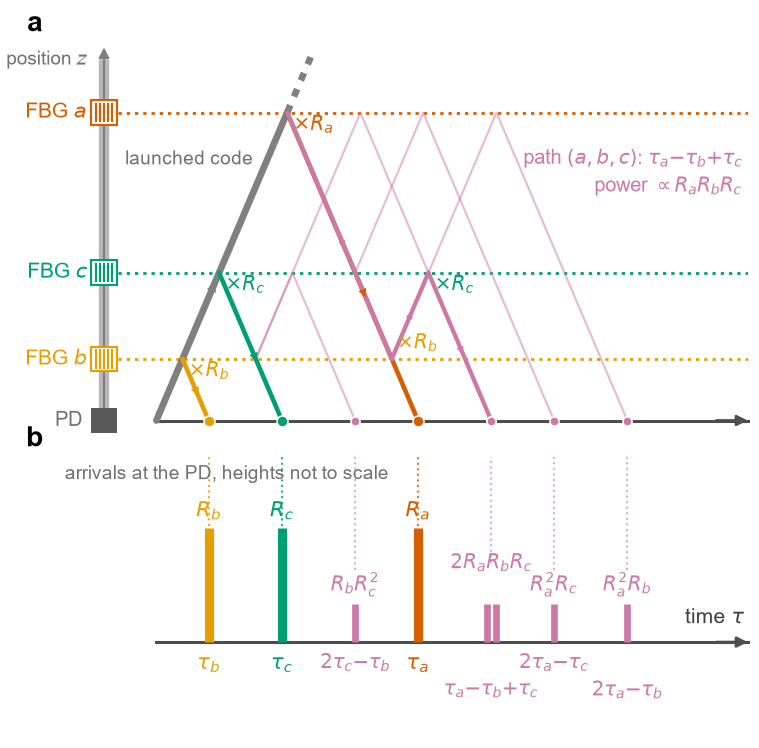
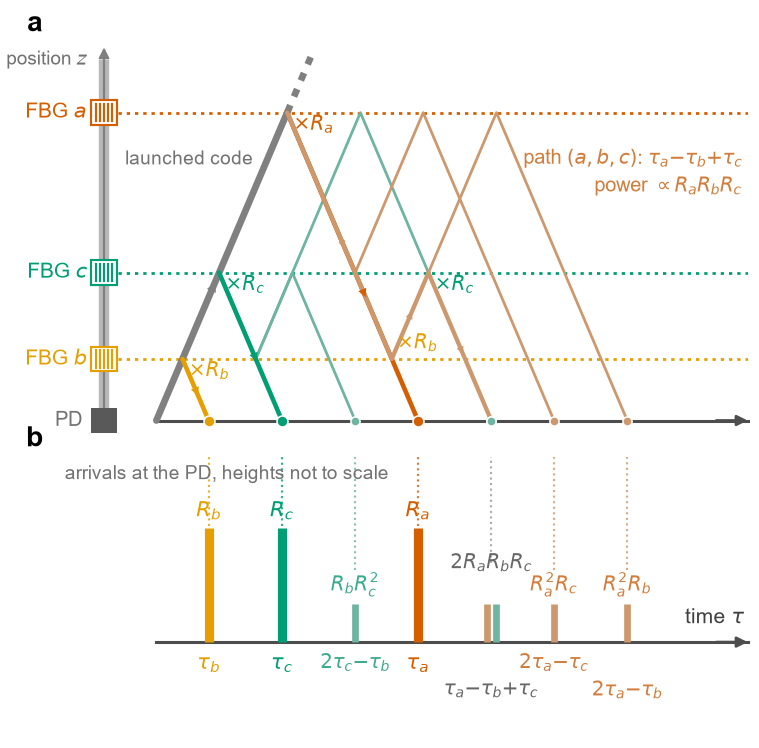
s50: ghosts coloured by the grating of their first reflection, greyed

diff --git a/python_selfcal_cdm/s50_ghostpath.py b/python_selfcal_cdm/s50_ghostpath.py
@@ -10,7 +10,8 @@ figures of the paper.
       launched code climbs the diagonal; every reflection descends back to
       z = 0 and lands on the time axis at its delay. The three direct returns
       and the third-order path (a,b,c) are drawn in full, the other four
-      third-order paths as thin lines.
+      third-order paths as thin lines. Every ghost carries the colour of the
+      grating of its first reflection, greyed.
   (b) The same time axis with every arrival: three direct returns of power
       ~ R and five third-order paths of power ~ R^3, labelled with delay and
       reflectivity product. The spacing is non-uniform on purpose so that the
@@ -33,7 +34,18 @@ FS.apply()
 TB, TC, TA = 1.0, 2.4, 5.0
 T = {'a': TA, 'b': TB, 'c': TC}
 COL = {'a': FS.VERM, 'b': FS.ORANGE, 'c': FS.GREEN}
-PUR = FS.PURPLE
+from matplotlib.colors import to_rgb
+
+
+def tint(col, w):
+    """Blend a colour with light grey: w = 1 keeps the colour, w = 0 is grey."""
+    c = np.array(to_rgb(col)); g = np.array([0.78, 0.78, 0.78])
+    return tuple(w * c + (1 - w) * g)
+
+
+# ghosts take the colour of the grating of their first reflection, greyed
+GH = {g: tint(COL[g], 0.45) for g in COL}    # lines, bars, dots
+GHT = {g: tint(COL[g], 0.7) for g in COL}    # text
 GREY = '0.45'
 TMAX = 11.3
 TMIN = -1.9      # room on the left for the fiber with the gratings
@@ -118,23 +130,23 @@ for seq in GHOST_SEQS:
     if seq == ('a', 'b', 'c'):
         continue
     p = path_points(seq)
-    ax.plot(p[1:, 0], p[1:, 1], color=PUR, lw=LW_GHF, alpha=0.5, zorder=2)
+    ax.plot(p[1:, 0], p[1:, 1], color=GH[seq[0]], lw=LW_GHF + 0.2, zorder=2)
 
 # the path (a,b,c) in full
 p = path_points(('a', 'b', 'c'))
-seg_arrow(ax, tuple(p[1]), tuple(p[2]), PUR, LW_GH, ms=6, frac=0.55)
-seg_arrow(ax, tuple(p[2]), tuple(p[3]), PUR, LW_GH, ms=6, frac=0.55)
-seg_arrow(ax, tuple(p[3]), tuple(p[4]), PUR, LW_GH, ms=6, frac=0.55)
+seg_arrow(ax, tuple(p[1]), tuple(p[2]), GH['a'], LW_GH, ms=6, frac=0.55)
+seg_arrow(ax, tuple(p[2]), tuple(p[3]), GH['a'], LW_GH, ms=6, frac=0.55)
+seg_arrow(ax, tuple(p[3]), tuple(p[4]), GH['a'], LW_GH, ms=6, frac=0.55)
 ax.text(p[2][0] + 0.1, p[2][1] + 0.05, r'$\times R_b$', color=COL['b'], ha='left', va='bottom', fontsize=6.6)
 ax.text(p[3][0] + 0.12, p[3][1] - 0.02, r'$\times R_c$', color=COL['c'], ha='left', va='top', fontsize=6.6)
-ax.text(TMAX - 0.1, 2.05, r'path $(a,b,c)$: $\tau_a{-}\tau_b{+}\tau_c$', color=PUR, ha='right', va='bottom', fontsize=6.4)
-ax.text(TMAX - 0.1, 1.82, r'power $\propto R_aR_bR_c$', color=PUR, ha='right', va='bottom', fontsize=6.4)
+ax.text(TMAX - 0.1, 2.05, r'path $(a,b,c)$: $\tau_a{-}\tau_b{+}\tau_c$', color=GHT['a'], ha='right', va='bottom', fontsize=6.4)
+ax.text(TMAX - 0.1, 1.82, r'power $\propto R_aR_bR_c$', color=GHT['a'], ha='right', va='bottom', fontsize=6.4)
 
 # arrivals at the photodiode: dots on the time axis
 for g in 'bca':
     ax.plot(T[g], 0, 'o', color=COL[g], ms=3.6, mec='white', mew=0.5, zorder=5)
 for seq in GHOST_SEQS:
-    ax.plot(path_points(seq)[-1, 0], 0, 'o', color=PUR, ms=3.0, mec='white', mew=0.5, zorder=5)
+    ax.plot(path_points(seq)[-1, 0], 0, 'o', color=GH[seq[0]], ms=3.0, mec='white', mew=0.5, zorder=5)
 
 ax.set_xlim(TMIN, TMAX)
 ax.set_ylim(-0.14, ZMAX)
@@ -154,17 +166,21 @@ for g in 'bca':
 for tg, (lab_t, lab_r) in GHOST_LABELS.items():
     double = abs(tg - (TA - TB + TC)) < 1e-9
     low = double or abs(tg - (2 * TA - TB)) < 1e-9
+    seqs_at = [q for q in GHOST_SEQS if abs(path_points(q)[-1, 0] - tg) < 1e-9]
     xs = (tg - 0.09, tg + 0.09) if double else (tg,)
-    for x_ in xs:
-        bx.plot([x_, x_], [0, H_GH], color=PUR, lw=2.2, solid_capstyle='butt', zorder=3)
-    bx.text(tg, H_GH + 0.06 + (0.22 if double else 0), lab_r, color=PUR, ha='center', va='bottom', fontsize=6.6)
-    bx.text(tg, -0.1 - (0.24 if low else 0), lab_t, color=PUR, ha='center', va='top', fontsize=6.4)
+    for x_, q in zip(xs, seqs_at):
+        bx.plot([x_, x_], [0, H_GH], color=GH[q[0]], lw=2.2, solid_capstyle='butt', zorder=3)
+    ct = '0.4' if double else GHT[seqs_at[0][0]]
+    bx.text(tg, H_GH + 0.06 + (0.22 if double else 0), lab_r, color=ct, ha='center', va='bottom', fontsize=6.6)
+    bx.text(tg, -0.1 - (0.24 if low else 0), lab_t, color=ct, ha='center', va='top', fontsize=6.4)
 # leaders from the arrival dots to the bars
 for g in 'bca':
     bx.plot([T[g], T[g]], [H_DIR + 0.02, 1.62], color=COL[g], lw=0.7, ls=(0, (1, 1.6)), alpha=0.8, zorder=0)
 for tg in GHOST_LABELS:
-    bx.plot([tg, tg], [H_GH + (0.36 if abs(tg - (TA - TB + TC)) < 1e-9 else 0.3), 1.62],
-            color=PUR, lw=0.7, ls=(0, (1, 1.6)), alpha=0.6, zorder=0)
+    double = abs(tg - (TA - TB + TC)) < 1e-9
+    q0 = [q for q in GHOST_SEQS if abs(path_points(q)[-1, 0] - tg) < 1e-9][0]
+    bx.plot([tg, tg], [H_GH + (0.36 if double else 0.3), 1.62],
+            color='0.6' if double else GH[q0[0]], lw=0.7, ls=(0, (1, 1.6)), alpha=0.8, zorder=0)
 bx.text(TMAX - 0.05, 0.12, r'time $\tau$', color='0.25', ha='right', va='bottom', fontsize=7)
 for a_ in (ax, bx):
     a_.add_patch(FancyArrowPatch((TMAX - 0.6, 0), (TMAX, 0), arrowstyle='-|>', mutation_scale=7, color='0.3', lw=0.9, shrinkA=0, shrinkB=0, zorder=4, clip_on=False))
